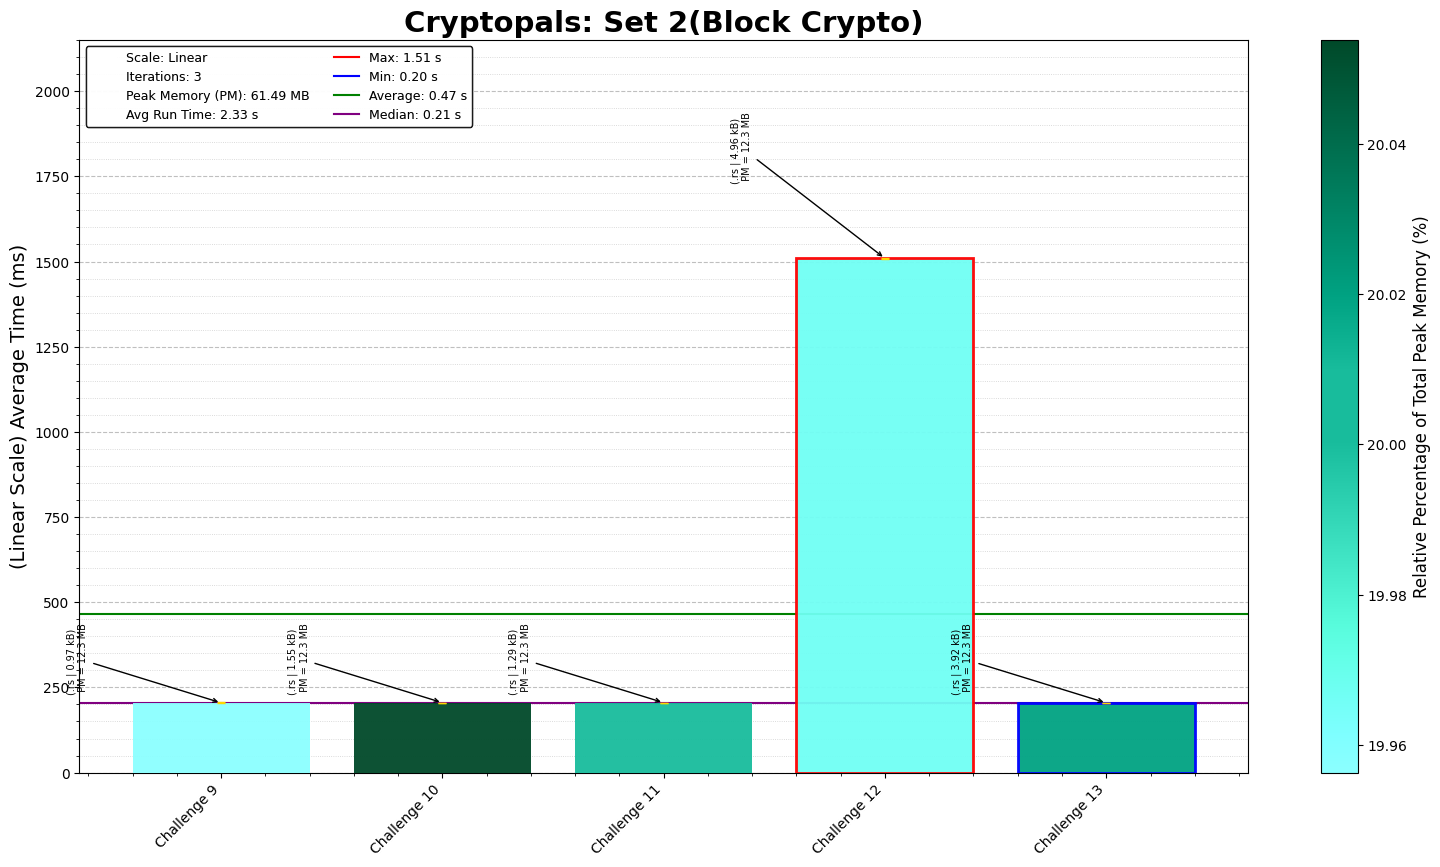
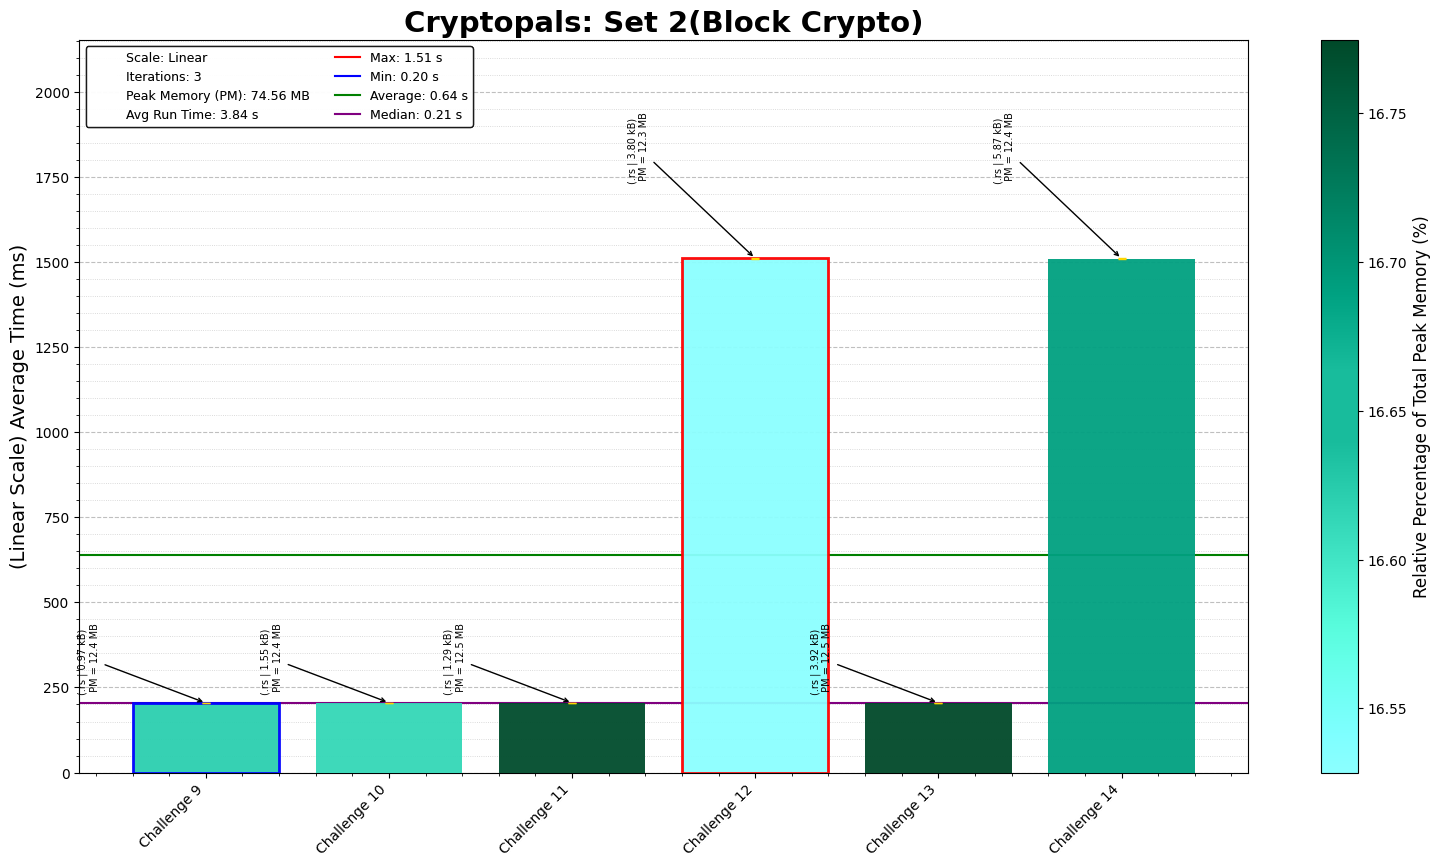
cryptopals challenge 14

diff --git a/set_02/cryptopals_14.rs b/set_02/cryptopals_14.rs
@@ -1,0 +1,129 @@
+/* Cryptopals - Set 2, Challenge 14
+Solution Started: September 22, 2025
+Puzzle Link: https://cryptopals.com/sets/2/challenges/14
+Solution by: Abbas Moosajee
+Brief: [Byte-at-a-time ECB decryption (Harder)] */
+
+use std::{env, error::Error};
+
+use cryptopals::{
+    select_input, base64_to_bytes, confirm_ecb,
+    encryption_oracle, find_block_size, find_prefix_len
+};
+
+fn main() -> Result<(), Box<dyn Error>> {
+    println!("Set 02, Challenge 14: Byte-at-a-time ECB decryption (Harder)");
+
+    // Get secret suffix from command line or use default
+    let default_suffix: &'static str = "Um9sbGluJyBpbiBteSA1LjAKV2l0aCBteSByYWctdG9wIGRvd24gc28gbXkg\naGFpciBjYW4gYmxvdwpUaGUgZ2lybGllcyBvbiBzdGFuZGJ5IHdhdmluZyBq\ndXN0IHRvIHNheSBoaQpEaWQgeW91IHN0b3A/IE5vLCBJIGp1c3QgZHJvdmUg\nYnkK";
+    let args: Vec<String> = env::args().collect();
+    let parsed_args: Option<&str> = args.get(1).map(|s| s.as_str());
+    let base64_inp: String = select_input(parsed_args, default_suffix);
+    let suffix_bytes: Vec<u8> = base64_to_bytes(&base64_inp.to_string()).expect("Invalid base64");
+
+    // Step 1: Detect the block size used by the cipher
+    let block_size: usize = find_block_size(encryption_oracle, suffix_bytes.clone());
+    println!("Detected block size: {}", block_size);
+
+    // Step 2: Confirm that ECB mode is being used
+    confirm_ecb(encryption_oracle, suffix_bytes.clone(), block_size);
+    println!("Confirmed ECB mode");
+
+    // Step 3: Detect random prefix length
+    let prefix_len: usize = find_prefix_len(encryption_oracle, suffix_bytes.clone(), block_size);
+    println!("Detected random prefix length: {}", prefix_len);
+
+    // Step 4: compute alignment padding so that our controlled input starts at a block boundary
+    let align_pad: usize = (block_size - (prefix_len % block_size)) % block_size;
+    println!("Computed alignment padding: {} (so controlled bytes start at block boundary)", align_pad);
+
+    // Step 5: Get expected result for verification (for progress/debugging)
+    let expected_secret: Vec<u8> = base64_to_bytes(default_suffix).expect("Invalid base64");
+
+    // Step 6: Byte-at-a-time decryption, accounting for prefix and alignment
+    let mut known_bytes: Vec<u8> = Vec::new();
+    let total_bytes_to_decrypt: usize = expected_secret.len();
+
+    println!("Total bytes to decrypt: {}", total_bytes_to_decrypt);
+
+    // The block index offset of the first controllable block in ciphertext
+    // after applying align_pad is:
+    let offset_blocks: usize = (prefix_len + align_pad) / block_size;
+
+    for i in 0..total_bytes_to_decrypt {
+        // number of filler 'A's to make the next unknown byte appear at the end of a block
+        let in_block_index = known_bytes.len() % block_size;
+        let pad_len = (block_size - 1) - in_block_index;
+        let attack_prefix = vec![b'A'; align_pad + pad_len];
+
+        // Build dictionary: for candidate byte b, oracle(attack_prefix + known + [b]) -> ciphertext block
+        let target_block_index = offset_blocks + (known_bytes.len() / block_size);
+        // produce target ciphertext for actual unknown byte
+        let ct_target = encryption_oracle(&attack_prefix, suffix_bytes.clone());
+        let start = target_block_index * block_size;
+        let end = start + block_size;
+        if end > ct_target.len() {
+            // shouldn't happen, but guard
+            println!("Ciphertext too short when computing target block (i={})", i);
+            break;
+        }
+        let target_block = &ct_target[start..end];
+
+        // Build dictionary
+        let mut found_byte: Option<u8> = None;
+        for b in 0u8..=255u8 {
+            // construct probe = attack_prefix + known_bytes + [b]
+            let mut probe: Vec<u8> = Vec::with_capacity(attack_prefix.len() + known_bytes.len() + 1);
+            probe.extend_from_slice(&attack_prefix);
+            probe.extend_from_slice(&known_bytes);
+            probe.push(b);
+
+            let ct_probe = encryption_oracle(&probe, suffix_bytes.clone());
+            let probe_block = &ct_probe[start..end];
+            if probe_block == target_block {
+                found_byte = Some(b);
+                break;
+            }
+        }
+
+        if let Some(nb) = found_byte {
+            known_bytes.push(nb);
+            // Optionally show progress per block
+            if known_bytes.len() % block_size == 0 || known_bytes.len() == total_bytes_to_decrypt {
+                let _current_text = String::from_utf8_lossy(&known_bytes);
+                // println!("Decrypted {} bytes: {}", known_bytes.len(), _current_text);
+            }
+        } else {
+            println!("Failed to find byte at position {}", i);
+            break;
+        }
+    }
+
+    println!("\nFinal decrypted result:\n{}", String::from_utf8_lossy(&known_bytes));
+
+    // Verify
+    if known_bytes == expected_secret {
+        println!("SUCCESS: Decrypted secret matches expected!");
+    } else {
+        println!("FAILURE: Decrypted secret doesn't match expected!");
+        println!("Decrypted length: {}, Expected length: {}", known_bytes.len(), expected_secret.len());
+
+        let min_len: usize = known_bytes.len().min(expected_secret.len());
+        for i in 0..min_len {
+            if known_bytes[i] != expected_secret[i] {
+                println!("First difference at byte {}: got {}, expected {}", i, known_bytes[i], expected_secret[i]);
+                println!("Context: '{}' vs '{}'",
+                    String::from_utf8_lossy(&known_bytes[i.saturating_sub(5)..(i+5).min(known_bytes.len())]),
+                    String::from_utf8_lossy(&expected_secret[i.saturating_sub(5)..(i+5).min(expected_secret.len())])
+                );
+                break;
+            }
+        }
+
+        if known_bytes.len() > expected_secret.len() {
+            println!("Extra bytes at end: {:?}", &known_bytes[expected_secret.len()..]);
+        }
+    }
+
+    Ok(())
+}

diff --git a/src/crypto/aes_oracle.rs b/src/crypto/aes_oracle.rs
@@ -1,7 +1,12 @@
 use rand::{Rng, random};
 use std::collections::HashSet;
 use crate::crypto::aes_encyption::{AesStandard,  gen_key, pkcs7_padding};
+use std::cell::RefCell;
 
+thread_local! {
+    pub static KEY: RefCell<Option<Vec<u8>>> = RefCell::new(None);
+    pub static PREFIX: RefCell<Option<Vec<u8>>> = RefCell::new(None);
+}
 /// Encryption oracle: randomly encrypts with ECB or CBC
 pub fn encryption_oracle_random(data: &[u8]) -> (Vec<u8>, &'static str) {
     let key = gen_key(16);
@@ -44,32 +49,35 @@ pub fn detect_mode(ciphertext: &[u8]) -> &'static str {
     "CBC"
 }
 
-
 /// Confirms ECB mode by testing with repeating input blocks
 /// encryption_fn: The encryption oracle function to test
 /// suffix_bytes: The secret suffix bytes to append
 /// block_size: The detected block size to verify
 pub fn confirm_ecb(
-    encryption_fn: impl Fn(&[u8], Vec<u8>) -> Vec<u8>,
+    oracle: impl Fn(&[u8], Vec<u8>) -> Vec<u8>,
     suffix_bytes: Vec<u8>,
     block_size: usize
 ) -> bool {
-    // Create input with repeating blocks to test ECB behavior
-    let input: Vec<u8> = vec![b'A'; block_size * 3];
-    let ciphertext: Vec<u8> = encryption_fn(&input, suffix_bytes);
+    // Feed in a long string of 'A's (long enough to cover any prefix misalignment)
+    let probe: Vec<u8> = vec![b'A'; block_size * 64];
+    let ct: Vec<u8> = oracle(&probe, suffix_bytes);
 
-    // Check if any two consecutive blocks are identical (ECB characteristic)
-    for i in 0..2 {
-        let block1: &[u8] = &ciphertext[i * block_size..(i + 1) * block_size];
-        let block2: &[u8] = &ciphertext[(i + 1) * block_size..(i + 2) * block_size];
+    let num_blocks: usize = ct.len() / block_size;
+    let mut blocks: Vec<&[u8]> = Vec::with_capacity(num_blocks);
 
-        if block1 == block2 {
+    for i in 0..num_blocks {
+        blocks.push(&ct[i * block_size..(i + 1) * block_size]);
+    }
+
+    // Look for any repeated adjacent block
+    for i in 0..(blocks.len() - 1) {
+        if blocks[i] == blocks[i + 1] {
             return true; // ECB confirmed
         }
     }
+
     panic!("Not using ECB mode!");
 }
-
 
 /// Detects the block size by monitoring ciphertext length changes
 /// encryption_fn: The encryption oracle function
@@ -131,3 +139,73 @@ pub fn find_next_byte(
 
     None // No match found (end of message or error)
 }
+
+/// Encryption oracle: Appends secret suffix and encrypts with ECB
+/// data: User-controlled input bytes
+/// suffix_bytes: Secret bytes to be decrypted
+pub fn encryption_oracle(data: &[u8], suffix_bytes: Vec<u8>) -> Vec<u8> {
+    KEY.with(|key_cell: &RefCell<Option<Vec<u8>>>| {
+        let mut key_opt: std::cell::RefMut<'_, Option<Vec<u8>>> = key_cell.borrow_mut();
+
+        // Generate key once and reuse it (thread-local storage)
+        if key_opt.is_none() {
+            *key_opt = Some(gen_key(16));
+        }
+        let key: &Vec<u8> = key_opt.as_ref().unwrap();
+
+        // Combine user input with secret suffix
+        let mut plaintext: Vec<u8> = Vec::new();
+        plaintext.extend_from_slice(data);
+        plaintext.extend_from_slice(&suffix_bytes);
+
+        // PKCS#7 pad to block size and encrypt with ECB
+        let padded: Vec<u8> = pkcs7_padding(&plaintext, 16);
+        let cipher: AesStandard = AesStandard::new(key).unwrap();
+        cipher.encrypt_ecb(&padded).unwrap()
+    })
+}
+
+
+/// Find prefix length (unknown random bytes before our controllable input)
+/// Strategy:
+/// For pad in 0..block_size:
+///   send input: 'A' * (2*block_size + pad)
+///   find first index i where block i == block i+1
+///   then prefix_len = i*block_size - pad
+pub fn find_prefix_len(
+    oracle: impl Fn(&[u8], Vec<u8>) -> Vec<u8>,
+    suffix_bytes: Vec<u8>,
+    block_size: usize
+) -> usize {
+    // We'll create a buffer of 2*block_size + pad 'A's and search for two identical adjacent blocks.
+    for pad in 0..block_size {
+        let probe: Vec<u8> = vec![b'A'; block_size * 2 + pad];
+        let ct: Vec<u8> = oracle(&probe, suffix_bytes.clone());
+
+        // split into blocks
+        let num_blocks: usize = ct.len() / block_size;
+        let mut blocks: Vec<&[u8]> = Vec::with_capacity(num_blocks);
+        for i in 0..num_blocks {
+            blocks.push(&ct[i*block_size..(i+1)*block_size]);
+        }
+
+        // find adjacent identical blocks
+        for i in 0..(blocks.len().saturating_sub(1)) {
+            if blocks[i] == blocks[i+1] {
+                // found repeated adjacent blocks at index i
+                // prefix length = i*block_size - pad
+                let prefix_len: usize = i * block_size;
+                if prefix_len >= pad {
+                    return prefix_len - pad;
+                } else {
+                    // shouldn't happen, but guard
+                    return 0;
+                }
+            }
+        }
+    }
+
+    // if not found, fallback to 0
+    0
+}
+

diff --git a/set_02/cryptopals_12.rs b/set_02/cryptopals_12.rs
@@ -4,41 +4,10 @@ Puzzle Link: https://cryptopals.com/sets/2/challenges/12
 Solution by: Abbas Moosajee
 Brief: [Byte-at-a-time ECB decryption (Simple)] */
 
-use std::{env, error::Error, cell::RefCell};
+use std::{env, error::Error};
 use cryptopals::{
-    select_input, base64_to_bytes,
-    AesStandard, pkcs7_padding, gen_key, confirm_ecb, find_block_size, find_next_byte
+    select_input, base64_to_bytes, encryption_oracle, confirm_ecb, find_block_size, find_next_byte
 };
-
-thread_local! {
-    static KEY: RefCell<Option<Vec<u8>>> = RefCell::new(None);
-}
-
-/// Encryption oracle: Appends secret suffix and encrypts with ECB
-/// data: User-controlled input bytes
-/// suffix_bytes: Secret bytes to be decrypted
-fn encryption_oracle(data: &[u8], suffix_bytes: Vec<u8>) -> Vec<u8> {
-    KEY.with(|key_cell: &RefCell<Option<Vec<u8>>>| {
-        let mut key_opt: std::cell::RefMut<'_, Option<Vec<u8>>> = key_cell.borrow_mut();
-        
-        // Generate key once and reuse it (thread-local storage)
-        if key_opt.is_none() {
-            *key_opt = Some(gen_key(16));
-        }
-        
-        let key: &Vec<u8> = key_opt.as_ref().unwrap();
-        
-        // Combine user input with secret suffix
-        let mut plaintext: Vec<u8> = Vec::new();
-        plaintext.extend_from_slice(data);
-        plaintext.extend_from_slice(&suffix_bytes);
-        
-        // PKCS#7 pad to block size and encrypt with ECB
-        let padded: Vec<u8> = pkcs7_padding(&plaintext, 16);
-        let cipher: AesStandard = AesStandard::new(key).unwrap();
-        cipher.encrypt_ecb(&padded).unwrap()
-    })
-}
 
 fn main() -> Result<(), Box<dyn Error>> {
     println!("Set 02, Challenge 12: Byte-at-a-time ECB decryption (Simple)");

diff --git a/src/lib.rs b/src/lib.rs
@@ -40,5 +40,6 @@ pub use crypto::aes_encyption::{
     AesStandard, AesError, pkcs7_padding, pkcs7_unpadding, gen_key
 };
 pub use crypto::aes_oracle::{
-    encryption_oracle_random, detect_mode, find_block_size, find_next_byte, confirm_ecb
+    encryption_oracle_random, detect_mode, find_block_size,
+    find_next_byte, confirm_ecb, encryption_oracle, find_prefix_len
 };
